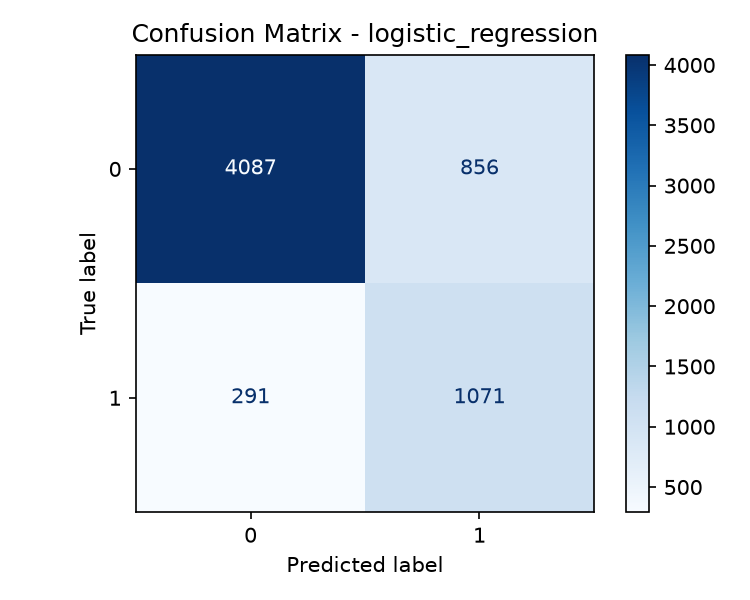
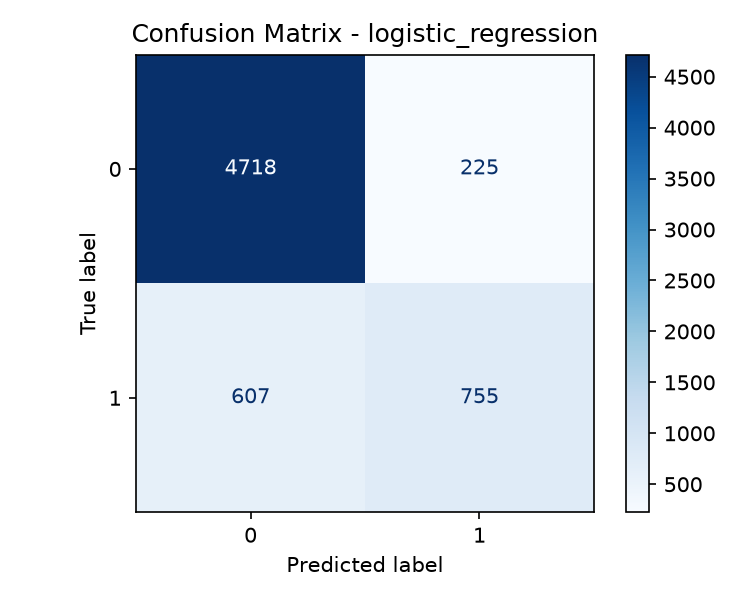
Add ML upgrades, Streamlit app, live-link README, and fixes

diff --git a/main.py b/main.py
@@ -9,7 +9,7 @@ sys.path.insert(0, "src")
 from data_preprocessing import load_raw_data, clean_data, save_processed_data
 from eda import run_eda
 from feature_engineering import split_features_target
-from train_models import train_all_models
+from train_models import train_all_models, build_pipeline, build_xgboost
 from evaluate import evaluate_all
 
 
@@ -30,8 +30,13 @@ def main():
     X_train, X_test, y_train, y_test = split_features_target(clean_df)
     print(f"   Train: {X_train.shape[0]} rows | Test: {X_test.shape[0]} rows")
 
-    print("5. Training models (Logistic Regression, Random Forest)...")
+    print("5. Training models (Logistic Regression, Random Forest, XGBoost)...")
     fitted_models = train_all_models(X_train, y_train)
+    # train_all_models covers LR and RF (from MODEL_CONFIGS); add the tuned XGBoost,
+    # which needs y_train for its imbalance setting, so it's built via a factory.
+    xgb_pipeline = build_pipeline(build_xgboost(y_train))
+    xgb_pipeline.fit(X_train, y_train)
+    fitted_models["xgboost"] = xgb_pipeline
 
     print("6. Evaluating on test set...")
     results = evaluate_all(fitted_models, X_test, y_test)

diff --git a/README.md b/README.md
@@ -1,38 +1,74 @@
 # Customer Loan Risk Prediction System
 
-A machine learning-based system that predicts customer loan risk using financial and demographic data, to support risk assessment and lending decisions.
+### 🔗 [**► Try the live app**](https://customer-loan-risk-prediction-system-97fp9tmbut7vuugqvnyqqh.streamlit.app/) &nbsp;|&nbsp; enter an applicant's details and get an instant risk prediction
+
+A machine learning system that predicts customer loan-default risk from financial and demographic data, to support lending decisions. It goes beyond a basic classifier: cross-validated evaluation, hyperparameter tuning, class-imbalance handling, model explainability, business-cost analysis, and a live interactive web app.
 
 ## Tech Stack
-- Python
-- Pandas, NumPy
-- Scikit-learn
+- Python, Pandas, NumPy
+- Scikit-learn, XGBoost
 - Matplotlib / Seaborn
+- Streamlit (interactive demo)
+
+## Dataset
+[Credit Risk Dataset](https://www.kaggle.com/datasets/laotse/credit-risk-dataset) — 32,581 records of customer financial and demographic data (age, income, home ownership, employment length, loan intent/grade/amount/interest rate, credit history) with a binary `loan_status` target (0 = repaid, 1 = default). Moderately imbalanced (~78% repaid / 22% default).
 
 ## Project Structure
 ```
 Customer-Loan-Risk-Prediction-System/
+├── app.py                       # Streamlit web app (live prediction demo)
+├── main.py                      # runs the core pipeline end-to-end
 ├── data/
-│   ├── raw/            # original, untouched dataset
-│   └── processed/      # cleaned/feature-engineered data
-├── notebooks/           # EDA and experimentation notebooks
-├── src/                 # reusable pipeline code
-│   ├── data_preprocessing.py
-│   ├── eda.py
-│   ├── feature_engineering.py
-│   ├── train_models.py
-│   └── evaluate.py
-├── reports/
-│   └── figures/         # saved plots/visualizations
+│   ├── raw/                     # original dataset
+│   └── processed/               # cleaned data
+├── src/
+│   ├── data_preprocessing.py    # cleaning: duplicates, outliers, imputation
+│   ├── eda.py                   # exploratory charts
+│   ├── feature_engineering.py   # scaling + one-hot encoding pipeline, train/test split
+│   ├── train_models.py          # model configs (LR, tuned RF, tuned XGBoost)
+│   ├── evaluate.py              # accuracy/precision/recall/F1 + confusion matrices
+│   ├── cross_validation.py      # 5-fold cross-validation
+│   ├── hyperparameter_tuning.py # GridSearchCV for RF and XGBoost
+│   ├── imbalance_experiment.py  # class_weight="balanced" experiment
+│   ├── threshold_tuning.py      # decision-threshold analysis
+│   ├── model_comparison.py      # fair 3-model comparison
+│   ├── feature_importance.py    # explainability (XGBoost importances)
+│   ├── cost_analysis.py         # business-cost (dollar) analysis
+│   └── train_final_model.py     # trains + saves the final model for the app
+├── models/best_model.joblib     # saved tuned XGBoost pipeline (~1.8MB)
+├── reports/figures/             # all saved plots
 ├── requirements.txt
+├── DEPLOYMENT.md                # how to deploy the app
 └── README.md
 ```
 
-## Workflow
-1. **Data Cleaning** — handle missing values, duplicates, and inconsistent types (`src/data_preprocessing.py`)
-2. **EDA & Visualization** — explore distributions, correlations, class balance (`src/eda.py`, `notebooks/`)
-3. **Feature Engineering** — encode categoricals, scale numerics, derive new features (`src/feature_engineering.py`)
-4. **Model Training** — train classification models (Logistic Regression, Random Forest, etc.) (`src/train_models.py`)
-5. **Evaluation** — accuracy, precision, recall, F1-score (`src/evaluate.py`)
+## Approach
+
+### Core pipeline
+1. **Data cleaning** — remove duplicates and impossible values (age > 100, employment length > 60); impute missing `loan_int_rate` per loan grade and `person_emp_length` by median (`src/data_preprocessing.py`).
+2. **EDA** — class balance, distributions, correlation heatmap, default rates by category (`src/eda.py`).
+3. **Feature engineering** — `StandardScaler` for numerics, `OneHotEncoder` for categoricals, bundled in a `ColumnTransformer`; stratified 80/20 train/test split (`src/feature_engineering.py`).
+4. **Modeling & evaluation** — Logistic Regression, Random Forest, XGBoost, scored on accuracy/precision/recall/F1 (`src/train_models.py`, `src/evaluate.py`).
+
+### Advanced work
+5. **Cross-validation** — 5-fold CV confirms results are stable, not a lucky split (`src/cross_validation.py`).
+6. **Hyperparameter tuning** — `GridSearchCV` over RF and XGBoost settings, scored by F1 (`src/hyperparameter_tuning.py`).
+7. **Class-imbalance handling** — `class_weight="balanced"` (RF/LR) and `scale_pos_weight` (XGBoost) to improve recall on defaulters (`src/imbalance_experiment.py`).
+8. **Threshold tuning** — scans decision thresholds to trade off precision vs recall instead of the default 0.5 (`src/threshold_tuning.py`).
+9. **Explainability** — XGBoost feature importances; top drivers are home ownership, loan grade, and loan-to-income ratio (`src/feature_importance.py`).
+10. **Business-cost analysis** — translates false positives/negatives into dollar costs and finds the cost-minimizing threshold (`src/cost_analysis.py`).
+11. **Interactive demo** — Streamlit app for live, per-applicant predictions with an adjustable decision threshold (`app.py`).
+
+## Results (test set)
+| Model | Accuracy | Precision | Recall | F1-score |
+|---|---|---|---|---|
+| Logistic Regression | 0.868 | 0.770 | 0.554 | 0.645 |
+| Random Forest (tuned) | 0.929 | 0.902 | 0.753 | 0.821 |
+| **XGBoost (tuned)** | **0.935** | 0.891 | **0.794** | **0.840** |
+
+*(Reproducible via `python main.py`. A balanced Logistic Regression — see `src/model_comparison.py` — trades precision for higher recall: 0.556 / 0.786.)*
+
+**Tuned XGBoost** is the best overall model — highest F1 and recall — and is saved to `models/best_model.joblib` for the app. Model choice depends on business priority: XGBoost catches the most defaulters (recall), while Random Forest has slightly higher precision.
 
 ## Setup
 ```bash
@@ -41,25 +77,27 @@ venv\Scripts\activate
 pip install -r requirements.txt
 ```
 
-## Dataset
-[Credit Risk Dataset](https://www.kaggle.com/datasets/laotse/credit-risk-dataset) — 32,581 records of customer financial and demographic data (age, income, home ownership, employment length, loan intent/grade/amount/interest rate, credit history) with a binary `loan_status` target (0 = repaid, 1 = default).
-
-## Results
-| Model | Accuracy | Precision | Recall | F1-score |
-|---|---|---|---|---|
-| Logistic Regression | 0.868 | 0.770 | 0.554 | 0.645 |
-| Random Forest | 0.937 | 0.975 | 0.728 | 0.834 |
-
-Random Forest was selected as the best model (highest F1-score) and saved to `models/best_model.joblib`.
-
 ## How to Run
+Core pipeline:
 ```bash
-venv\Scripts\activate
 python main.py
 ```
-This runs the full pipeline: load → clean → EDA (plots saved to `reports/figures/`) → feature engineering → train → evaluate.
+Any individual analysis (examples):
+```bash
+python src/cross_validation.py
+python src/model_comparison.py
+python src/feature_importance.py
+python src/hyperparameter_tuning.py xgb
+```
+Interactive web app:
+```bash
+streamlit run app.py
+```
 
-Note: the trained model file (`models/best_model.joblib`) is not stored in this repo (it's ~112MB, over GitHub's size limit) — running `main.py` regenerates it locally.
+## Deployment
+See [DEPLOYMENT.md](DEPLOYMENT.md) for deploying the Streamlit app to a public URL.
 
-## Status
-✅ Pipeline complete — data cleaned, EDA generated, two models trained and evaluated.
+## Notes & honest limitations
+- XGBoost probabilities are **risk scores, not calibrated** — rankings are reliable, but exact percentages are overconfident; `CalibratedClassifierCV` would fix this if calibrated probabilities were needed.
+- Threshold tuning currently selects on the test set (mild leakage); a validation set or CV-based selection would be more rigorous.
+- Business-cost figures use illustrative loss/profit assumptions, not real bank data.